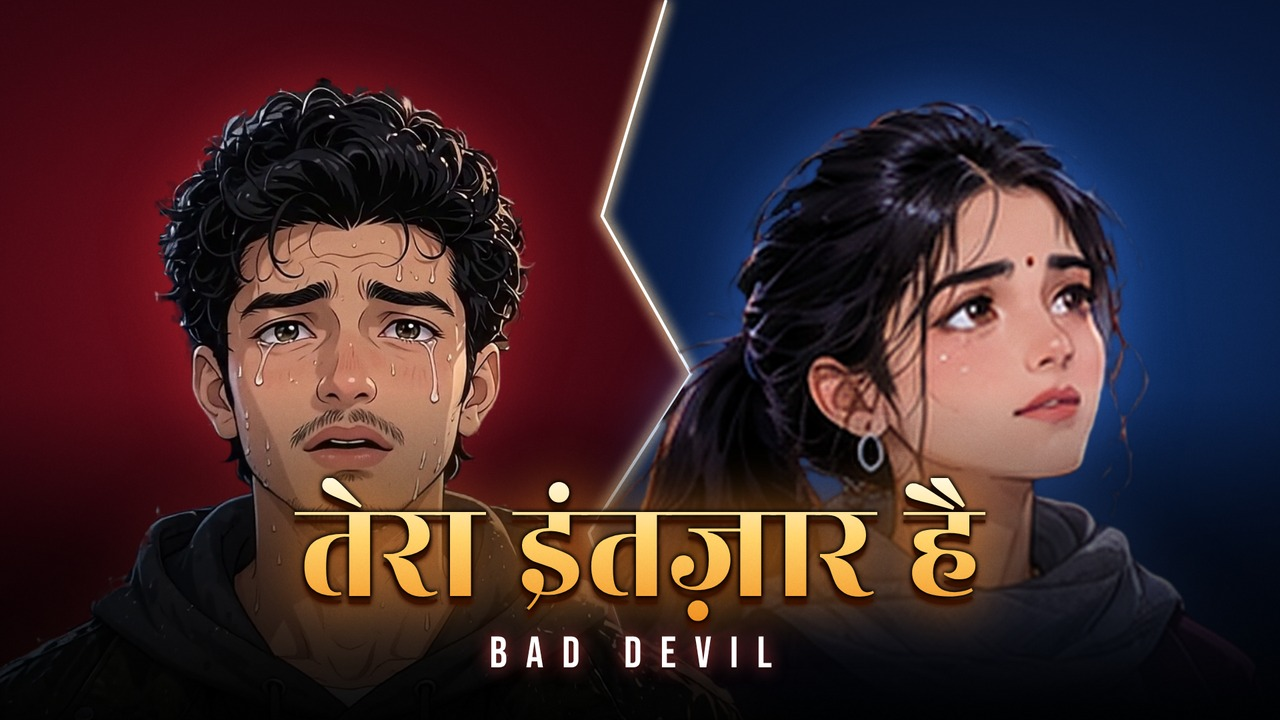
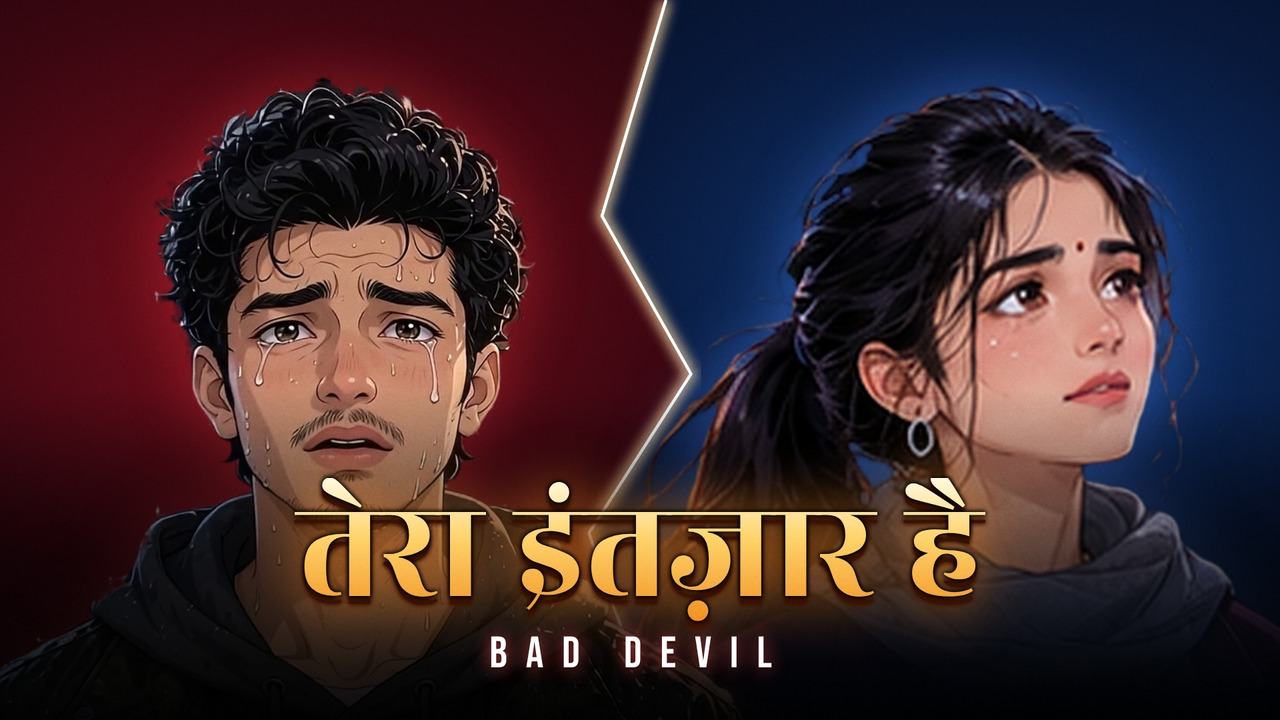
Move girl further right and up in Toota Dil thumbnail
Claude-Session: https://claude.ai/code/session_017dD9umPcrcPTaToqqfxVzK

Changed region(s): [[0.5, 0.1222, 0.9688, 0.825]]

diff --git a/video-demo/thumbnails/v2/source/d1b.html b/video-demo/thumbnails/v2/source/d1b.html
@@ -11,7 +11,7 @@ svg { position:absolute; inset:0; }
 .singer { left:0; width:100%; bottom: 40px; text-align:center; font-size: 44px; color:#fff; text-shadow: 0 0 18px rgba(255,80,80,.8), 0 3px 0 #000; }
 .gpanel { position:absolute; inset:0; clip-path: polygon(52% 0,100% 0,100% 100%,51% 100%,46% 74%,54% 52%,47% 30%); }
 .gglow { position:absolute; inset:0; filter: drop-shadow(0 0 30px rgba(80,140,255,.45)); }
-.girl { position:absolute; height: 1328px; left: 383px; top: 97px; -webkit-mask-image: linear-gradient(to bottom, #000 0, #000 480px, transparent 612px); }
+.girl { position:absolute; height: 1328px; left: 433px; top: 82px; -webkit-mask-image: linear-gradient(to bottom, #000 0, #000 480px, transparent 612px); }
 </style></head><body><div class="stage">
 <div class="L"></div><div class="R"></div>
 <svg viewBox="0 0 1280 720"><defs><filter id="g"><feGaussianBlur stdDeviation="6"/></filter></defs>
